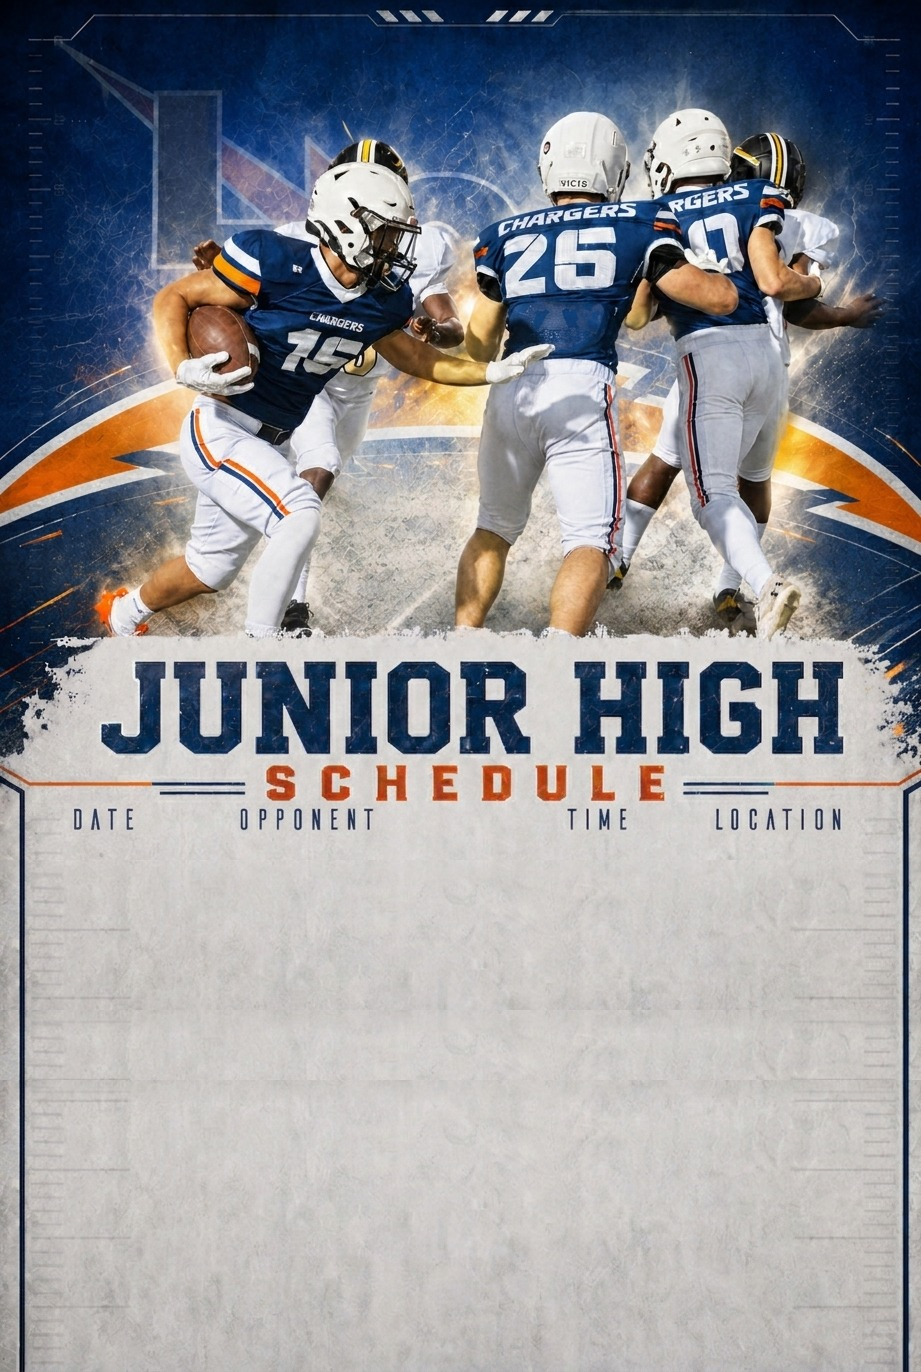
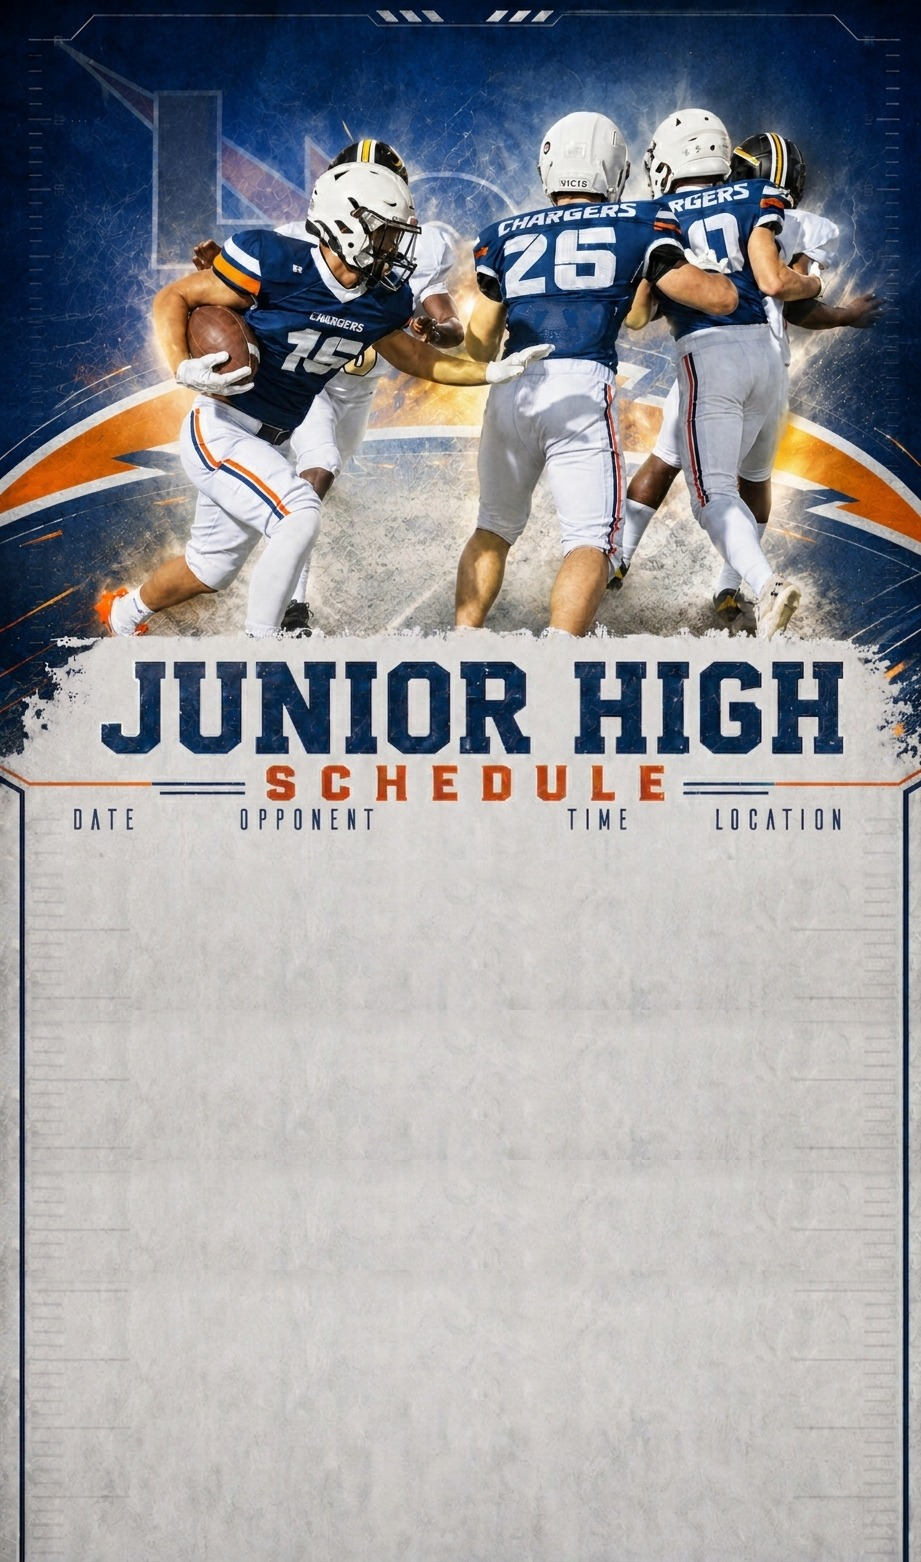
Resize schedule bg images to a flat 16-row capacity per team
Previous version added a uniform +220px to all three images, sized
off a fixed 2-row buffer over each team's current count. Switched
to a flat target instead: each image now holds exactly 16 schedule
rows, with its own extension amount since today's real counts
differ a lot per team (13/11/8):

  v_bg.jpeg:  921x1152 -> 921x1362 (+210px)
  jv_bg.jpeg: 921x1152 -> 921x1482 (+330px)
  jh_bg.jpeg: 921x1152 -> 921x1562 (+410px)

Re-verified no clipping at exactly 16 rows across viewport widths
300px-1440px (narrow phones are the real worst case, same reasoning
as before). Rescaled each team's overlay/record percentages using
its own image's height ratio rather than a shared one.

Claude-Session: https://claude.ai/code/session_01DU4s2fKT84GGohvFAb6zRm

diff --git a/css/football.css b/css/football.css
@@ -124,40 +124,46 @@
 
    BACKGROUND IMAGES GREW TALLER (requested directly - schedule
    rows were running past the image's own bottom edge once a
-   season had enough games): v_bg.jpeg/jv_bg.jpeg/jh_bg.jpeg all
-   went from 921x1152 to 921x1372 (+220px - sized for today's real
-   row counts plus a couple more, not a worst-case stress buffer;
-   see the sizing note below), by tiling a feathered strip of
-   blank texture below the header art - the photo/title/
-   column-label art above that point is pixel-identical to
-   before, not stretched, so this is purely more room for rows,
+   season had enough games): v_bg.jpeg/jv_bg.jpeg/jh_bg.jpeg each
+   went from 921x1152 to a 16-schedule-row capacity, by tiling a
+   feathered strip of blank texture below the header art - the
+   photo/title/column-label art above that point is pixel-identical
+   to before, not stretched, so this is purely more room for rows,
    never smaller text. Every top:/bottom: % below is relative to
    the WHOLE image's height, so each one was rescaled by
-   1152/1372 (0.839650) to land on the exact same absolute pixel
+   1152/new_height to land on the exact same absolute pixel
    position as before within that untouched top art - a straight
    re-tune in schedule-css-tuner.html against the new images would
    land on the same numbers (it measures the live image, not a
    hardcoded height), but if you ever paste in OLDER saved tuner
-   output instead, multiply its top/bottom by 0.839650 first or
+   output instead, rescale its top/bottom by the same ratio first or
    the schedule grid will start too high again.
 
-   SIZING NOTE: +220px covers today's real schedule (13 Varsity /
-   11 JV / 8 JH rows) plus 2 more rows each, with margin, checked
-   at viewport widths from 300px (narrow phones) up through 1440px
-   desktop - narrow phones are the real worst case here, not
-   desktop, because the image renders at a smaller CSS pixel width
-   there so the same row overflows into more natural image pixels.
-   If the season ever needs more than ~2 extra rows beyond the
-   current counts (e.g. a long playoff run), re-run
-   /tmp/extend_bg.py (if still around) or regenerate with a larger
-   extra_px and rescale these percentages by old_height/new_height
-   the same way. */
+   SIZING NOTE: the target is a flat 16-row capacity per team, not
+   "today's count plus a buffer" - so each image got its OWN extra
+   height (how much depends on how far today's real row count is
+   from 16), not a uniform one:
+     v_bg.jpeg:  921x1152 -> 921x1362 (+210px, today 13 rows)
+     jv_bg.jpeg: 921x1152 -> 921x1482 (+330px, today 11 rows)
+     jh_bg.jpeg: 921x1152 -> 921x1562 (+410px, today 8 rows)
+   Checked for clipping at exactly 16 rows across viewport widths
+   from 300px (narrow phones) up through 1440px desktop - narrow
+   phones are the real worst case here, not desktop, because the
+   image renders at a smaller CSS pixel width there so the same row
+   overflows into more natural image pixels. Each has ~15-20px of
+   margin at 16 rows at the worst width tested (vw=300). Below 16
+   rows (true today for all three), there's blank space at the
+   bottom by design - most visible on JH, which is furthest from 16
+   with only 8 real rows right now. If the 16-row target ever
+   changes, re-run /tmp/extend_bg.py (if still around) or
+   regenerate with a new extra_px per image and rescale these
+   percentages by old_height/new_height the same way. */
    /* Your Exact Varsity Placement Blueprint */
    .chargers-varsity-overlay {
      left: 7.5% !important;
      right: 3.5% !important;
-     top: 55.42% !important; /* 66% * (1152/1372) */
-     bottom: 1.68% !important; /* 2% * (1152/1372) */
+     top: 55.82% !important; /* 66% * (1152/1362) */
+     bottom: 1.69% !important; /* 2% * (1152/1362) */
      font-size: clamp(7px, 1.25vw, 18px) !important;
      line-height: 1.6 !important;
    }
@@ -165,8 +171,8 @@
    .chargers-jv-overlay {
      left: 7.5% !important;
      right: -0.5% !important;
-     top: 61.29% !important; /* 73% * (1152/1372) */
-     bottom: 1.68% !important; /* 2% * (1152/1372) */
+     top: 56.74% !important; /* 73% * (1152/1482) */
+     bottom: 1.55% !important; /* 2% * (1152/1482) */
      font-size: clamp(8px, 1.45vw, 18px) !important;
      line-height: 1.5 !important;
    }
@@ -174,8 +180,8 @@
    .chargers-jh-overlay {
      left: 7.5% !important;
      right: -0.5% !important;
-     top: 61.29% !important; /* 73% * (1152/1372) */
-     bottom: 1.68% !important; /* 2% * (1152/1372) */
+     top: 53.84% !important; /* 73% * (1152/1562) */
+     bottom: 1.48% !important; /* 2% * (1152/1562) */
      font-size: clamp(8px, 1.45vw, 18px) !important;
      line-height: 1.7 !important;
    }
@@ -278,25 +284,28 @@
    than nudging by eye - see this file's git history for the
    measurement approach.
 
-   RESCALED for the taller (921x1372, was 921x1152) background
-   images - see the TUNER OUTPUT REGION comment above for why. The
-   measured team_name_top_pct values above are still relative to
-   each ORIGINAL 1152px-tall image (that art didn't move or
-   resize), so each final percentage below is the original
-   (team_name_top_pct - 0.0243) figure multiplied by 1152/1372
-   (0.839650) - preserving the exact same absolute pixel position
-   for the record text, not a fresh measurement. Recompute from the
-   original team_name_top_pct values (scaled by whatever the
-   current/original height ratio is), never by nudging these
-   directly, if either image's height changes again. */
+   RESCALED for the taller background images - see the TUNER OUTPUT
+   REGION comment above for why, and for each image's own new
+   height (v: 1362, jv: 1482, jh: 1562 - each team was rescaled by
+   its OWN ratio, not a shared one, since each image grew by a
+   different amount). The measured team_name_top_pct values above
+   are still relative to each ORIGINAL 1152px-tall image (that art
+   didn't move or resize), so each final percentage below is the
+   original (team_name_top_pct - 0.0243) figure multiplied by
+   1152/<that team's new height> - preserving the exact same
+   absolute pixel position for the record text, not a fresh
+   measurement. Recompute from the original team_name_top_pct
+   values (scaled by whatever the current/original height ratio
+   is), never by nudging these directly, if any image's height
+   changes again. */
 .chargers-record-varsity {
-  top: calc(39.69% - 1.02em) !important; /* (0.497 - 0.0243) * (1152/1372) */
+  top: calc(39.98% - 1.02em) !important; /* (0.497 - 0.0243) * (1152/1362) */
 }
 .chargers-record-jv {
-  top: calc(45.40% - 1.02em) !important; /* (0.565 - 0.0243) * (1152/1372) */
+  top: calc(42.03% - 1.02em) !important; /* (0.565 - 0.0243) * (1152/1482) */
 }
 .chargers-record-jh {
-  top: calc(45.15% - 1.02em) !important; /* (0.562 - 0.0243) * (1152/1372) */
+  top: calc(39.66% - 1.02em) !important; /* (0.562 - 0.0243) * (1152/1562) */
 }
 .chargers-record-varsity,
 .chargers-record-jv,
